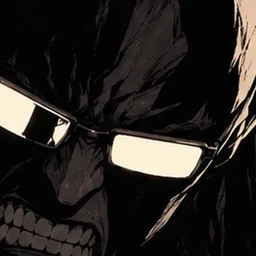
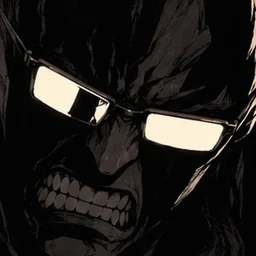
cave-3d v0.79: 도감 설정 반영 — 이름 17명 · 잭 · 고대사슴 크기 · 돌장갑 NPC · 불경자 스킬 그림
- 도감 본명 (sync_names): 로젤 → 헤마 · 고딕 기사 → 비나 · 금기사 → 나달 · 비숏 → 비숍 · 가람 → 폰 · 갱스터 가리 → 가리 · 건 → 풍야 · 율리 → 건 · 권총악마 → 호즈 · 히든깨비 → 각혈 · 천사슬 → 러슬 · 로시나 → 로지나 · 갱스터 잉끌레이도르 → 잭
- 잉끌레이도르 노트에 codex_g (도감 장도리 = 잭 묶음)
- 고대사슴 산호: 몸길이 5m · 등 높이 3m → 노트 tall 5.3 · 몸 반경 1.45 (h2.js v2.5)
- 돌장갑 역할 NPC · 카리우스 불경자 스킬 그림 얼굴 전체로 다시 자름
- 콜로세움 업뎃! 칸 v0.79 묶음 (drill.js v1.12)

Claude-Session: https://claude.ai/code/session_01J3nhobVtF4R9kQDUc9EDKF

diff --git a/cave-3d/src/names.js b/cave-3d/src/names.js
@@ -1,7 +1,7 @@
 /* names.js v1.0 — tools/sync_names.py 가 만듦 (손으로 고치지 말 것). 도감 본명 → 게임 이름
    본명 = 도감에서 고친 이름 > 도감 목록 이름, 괄호 꼬리표는 뗌. 2 · 3기 명단 (H2R)은 이름 뒤 설명 괄호를 그대로 둠 */
 'use strict';
-const BONMYEONG = {"agnes":"로젤","archer":"붉은 망토 궁수","axeKnight":"도끼기사","benkin":"벤킨","bk":"고딕 기사","bkShield":"검방흑기사","bkSpear":"흑기사창병","bluefat":"푸른 뚱보","bogwang":"보광","borama":"보르마","brute":"곤봉 거한","catw":"검냥이","cesar":"세자르","cheong":"청광묵","cheongAlly":"청광묵","cheongNpc":"청광묵","crabchef":"게 요리사","cs":"청승","dandalo":"단달로","eyemon":"눈깔괴물","fingerHole":"손가락 구멍","foeCultist":"광신도","foeDevil":"꼬마악마","foeFairy":"꼬마요정","foeJelly":"젤리 괴물","general":"대장군","goldknightAlly":"금기사","goodwill":"GOOD WILL","gwangnyang":"광냥","h2:ahae":"아해","h2:ahae2":"아해","h2:ancientangel":"고대천사","h2:ancientdeer":"고대사슴 산호","h2:arkam":"아컴","h2:bel":"인공천사 벨","h2:bishot":"비숏","h2:blackrabbit":"흑토끼기사","h2:blueflame":"푸른불꽃","h2:changra":"창라","h2:cheonmyeong":"천명","h2:collider":"콜라이더","h2:colossus15":"15M 거인병사","h2:dolsoe":"돌쇠","h2:gallia":"갈리아","h2:gandu":"갱스터 간두","h2:garam":"가람","h2:garam2":"가람","h2:gari":"갱스터 가리","h2:ghostgirl":"귀신녀","h2:goldknight":"금기사","h2:goldmask":"노란악마녀","h2:grinvan":"선봉장","h2:gun":"건","h2:gundevil":"권총악마","h2:hadim":"대악마 하딤","h2:hammerknight":"해머기사","h2:hari":"하리","h2:haryu":"하류","h2:heugik":"흑익","h2:hiddenkkaebi":"히든깨비","h2:hirari":"히라리","h2:hirari2":"히라리","h2:hongdukkae":"홍두깨","h2:hornbeast":"거대괴수B","h2:inclador":"갱스터 잉끌레이도르","h2:jaru":"자루","h2:joshua":"투구게 조슈아","h2:kanya":"여검방기사 칸야","h2:khaki":"카키","h2:knightcaptain":"기사단장","h2:langpang":"랑팡","h2:levi":"레비","h2:madangsoe":"마당쇠","h2:madosa":"마도사","h2:magusgirl":"마도사","h2:majin":"마신족 병사","h2:makarov":"대전사 마카로프","h2:mangak":"망각","h2:manghyang":"이계악마 망향","h2:mano":"마노","h2:mari":"마리","h2:mintbeast":"민트괴수","h2:moro":"모로","h2:mstar":"모닝스타","h2:mulle":"물레","h2:ohe":"오헤","h2:pearl":"인공타천사 펄","h2:rain":"레임","h2:ratknight":"쥐 기사","h2:ratsmall":"일반 쥐","h2:redarmor":"붉은갑주","h2:redrock":"붉은암석","h2:rook":"룩","h2:rozel":"로젤","h2:ryang":"아량","h2:sanddalgi":"산딸기","h2:scythebeast":"보라빛 대낫 괴수","h2:shedor":"배신자 셰도르","h2:slra":"천사슬","h2:slra2":"천사슬","h2:sosucha":"소스차","h2:spore":"포자","h2:stagbeast":"사슴","h2:stoneglove":"돌장갑","h2:tanga":"탕아","h2:tank":"중장 탱크","h2:ted":"테드","h2:tehera":"테헤라","h2:unitA":"기체 A","h2:unitB":"기체 B","h2:venti":"중장 벤티","h2:vicky":"비키","h2:wangnim":"하르겐","h2:whistle":"휘슬","h2:wraitha":"망령A","h2:yellow":"옐로","h2:yongmyo":"용묘화","h2:yuli":"율리","hargen":"하르겐","inju":"인주","jakyak":"작약","janggun":"장군님","jeokroe":"적뢰","kar":"카리우스","karius":"카리우스","kariusAlly":"카리우스","morningstar":"모닝스타","norman":"노먼","odile":"오딜","player":"인주","poren":"포렌","ratKnight":"쥐 기사","ratKnightV":"쥐 기사","ratV":"일반 쥐","rebecca":"레베카","rebeccaAlly":"레베카","rosina":"로시나","shieldman":"검방패병","slimeGirl":"슬라임녀","snail":"인광달팽이","spearman":"창병","swordsman":"검사","tehera":"테헤라","tomoe":"용묘화","umbrella":"우산 소녀","yellow":"옐로"};
+const BONMYEONG = {"agnes":"헤마","archer":"붉은 망토 궁수","axeKnight":"도끼기사","benkin":"벤킨","bk":"비나","bkShield":"검방흑기사","bkSpear":"흑기사창병","bluefat":"푸른 뚱보","bogwang":"보광","borama":"보르마","brute":"곤봉 거한","catw":"검냥이","cesar":"세자르","cheong":"청광묵","cheongAlly":"청광묵","cheongNpc":"청광묵","crabchef":"게 요리사","cs":"청승","dandalo":"단달로","eyemon":"눈깔괴물","fingerHole":"손가락 구멍","foeCultist":"광신도","foeDevil":"꼬마악마","foeFairy":"꼬마요정","foeJelly":"젤리 괴물","general":"대장군","goldknightAlly":"나달","goodwill":"GOOD WILL","gwangnyang":"광냥","h2:ahae":"아해","h2:ahae2":"아해","h2:ancientangel":"고대천사","h2:ancientdeer":"고대사슴 산호","h2:arkam":"아컴","h2:bel":"인공천사 벨","h2:bishot":"비숍","h2:blackrabbit":"흑토끼기사","h2:blueflame":"푸른불꽃","h2:changra":"창라","h2:cheonmyeong":"천명","h2:collider":"콜라이더","h2:colossus15":"15M 거인병사","h2:dolsoe":"돌쇠","h2:gallia":"갈리아","h2:gandu":"갱스터 간두","h2:garam":"폰","h2:garam2":"폰","h2:gari":"가리","h2:ghostgirl":"귀신녀","h2:goldknight":"나달","h2:goldmask":"노란악마녀","h2:grinvan":"선봉장","h2:gun":"풍야","h2:gundevil":"호즈","h2:hadim":"대악마 하딤","h2:hammerknight":"해머기사","h2:hari":"하리","h2:haryu":"하류","h2:heugik":"흑익","h2:hiddenkkaebi":"각혈","h2:hirari":"히라리","h2:hirari2":"히라리","h2:hongdukkae":"홍두깨","h2:hornbeast":"거대괴수B","h2:inclador":"잭","h2:jaru":"자루","h2:joshua":"투구게 조슈아","h2:kanya":"여검방기사 칸야","h2:khaki":"카키","h2:knightcaptain":"기사단장","h2:langpang":"랑팡","h2:levi":"레비","h2:madangsoe":"마당쇠","h2:madosa":"마도사","h2:magusgirl":"마도사","h2:majin":"마신족 병사","h2:makarov":"대전사 마카로프","h2:mangak":"망각","h2:manghyang":"이계악마 망향","h2:mano":"마노","h2:mari":"마리","h2:mintbeast":"민트괴수","h2:moro":"모로","h2:mstar":"모닝스타","h2:mulle":"물레","h2:ohe":"오헤","h2:pearl":"인공타천사 펄","h2:rain":"레임","h2:ratknight":"쥐 기사","h2:ratsmall":"일반 쥐","h2:redarmor":"붉은갑주","h2:redrock":"붉은암석","h2:rook":"룩","h2:rozel":"헤마","h2:ryang":"아량","h2:sanddalgi":"산딸기","h2:scythebeast":"보라빛 대낫 괴수","h2:shedor":"배신자 셰도르","h2:slra":"러슬","h2:slra2":"러슬","h2:sosucha":"소스차","h2:spore":"포자","h2:stagbeast":"사슴","h2:stoneglove":"돌장갑","h2:tanga":"탕아","h2:tank":"중장 탱크","h2:ted":"테드","h2:tehera":"테헤라","h2:unitA":"기체 A","h2:unitB":"기체 B","h2:venti":"중장 벤티","h2:vicky":"비키","h2:wangnim":"하르겐","h2:whistle":"휘슬","h2:wraitha":"망령A","h2:yellow":"옐로","h2:yongmyo":"용묘화","h2:yuli":"건","hargen":"하르겐","inju":"인주","jakyak":"작약","janggun":"장군님","jeokroe":"적뢰","kar":"카리우스","karius":"카리우스","kariusAlly":"카리우스","morningstar":"모닝스타","norman":"노먼","odile":"오딜","player":"인주","poren":"포렌","ratKnight":"쥐 기사","ratKnightV":"쥐 기사","ratV":"일반 쥐","rebecca":"레베카","rebeccaAlly":"레베카","rosina":"로지나","shieldman":"검방패병","slimeGirl":"슬라임녀","snail":"인광달팽이","spearman":"창병","swordsman":"검사","tehera":"테헤라","tomoe":"용묘화","umbrella":"우산 소녀","yellow":"옐로"};
 (function(){
   const swap = (old, nm) => { const m = /^(.*?)\s*(\(.*\))?\s*$/.exec(old || ''), b = m[1], tail = m[2] || '', extra = b !== nm && b.startsWith(nm) ? b.slice(nm.length).trim() : '';
     return nm + (extra || tail ? ' (' + [extra, tail.slice(1, -1)].filter(Boolean).join(' · ') + ')' : ''); };

diff --git a/cave-3d/src/h2.js b/cave-3d/src/h2.js
@@ -1,4 +1,4 @@
-/* h2.js v2.4 — (v2.4, v0.78: 기술 끝 그림 pose2 를 장판 기술 (베기 · 찌르기 · 찍기 · 마무리 …) 에도 — 칠 때 그 그림. 용묘화: 모아 내려치기 charge → smash · 파내기 · 파묻기 dig → dig2 (도감 움짤)) (v2.3, v0.77: 1차 업뎃 새 동작 프레임 H2MOV (src/h2_mov.js, tools/h2_moves.py) — 걷기 · 달리기 · 맞음 · 기절 · 쓰러짐 · 기술 그림을 노트 동작 위에 덮어씀. 옐로는 새 디자인만 (replace). 걷기 그림이 진짜면 출렁임을 끔) (v2.2: 기사단장은 4성 — 체력 1900 → 340 · 공격 30 → 22 · 보스 · 2페이즈 뺌) (v2.1: 노트의 크기 맞춤은 gscale (scale 은 자를 때 배율이라 쓰면 안 됨 — v2.0 에서 쥐 베테랑 등이 작아지던 것 고침) · 다 큰 쥐 기사 · 쥐 베테랑 키를 인주 · 청광묵과 비슷하거나 살짝 작게) (v2.0: 동작 검토 — 노트의 f (보는 방향) · flat (누운 그림) · scale (크기 맞춤) 을 씀) (v1.9: 쥐 기사 단계를 미리 정할 수 있음 H2.ratLv (포렌의 기억하는 쥐) · 포렌 (poren.js) 이 2기 목록에 붙음) (v1.8: 쥐 기사 성장 단계 1~4 (크기 · 체력 · 공격) · 하르겐 · 마도사 (맨얼굴) 이름) (v1.7: 3기-2 26명 기술표 (포렌의 쥐 · 아해 · 5성 서포터 · 1기 인물 새 시트 · 로젤 · 왕님 · 기사단장) · 패시브 25종 · 거르개 3기-2 / 1기 / 5성 · 포렌의 쥐 분대 단추) (v1.6: 자체점검 — 글만 있던 패시브 19개에 효과 · 주먹 화상 hitSts · 연계 도중 맞거나 넘어지면 끊김 (전엔 경직을 풀어 버림)) (v1.5: 3기 1차 25명 기술표 · 2기 7명 덧붙임 · 패시브 13종 · 소환 kind/hpk) (v1.4: 3기 — 기술 종류 rain 연속 장판 · wave 충격파 · beam 광선 · trap 덫 · combo 연계, 보스 2페이즈 phase · 2페이즈 기술 ph) (v1.3, v0.61: 움직임 기울기도 보이는 방향 fS를 따름) (v1.2: 묶음 그림 H2A (h2_atlas.js)가 있으면 그 칸을 씀 · 얼굴 모음) (v1.1: 기술 이름을 덮던 발수 n → cnt · 이름 괄호 정리 · 등급 묶음 · 패시브 효과 21종 H2PAS) (v1.0, v0.60) 2기 멤버: 드라이브 '2기멤버 동료,적 모음' 1차 반영
+/* h2.js v2.5 — (v2.5, v0.79: 고대사슴 산호 도감 설정 크기 — 몸길이 5m · 등 높이 3m (노트 tall 5.3) · 몸 반경 1.1 → 1.45. 잉끌레이도르 = 잭 (도감 본명, names.js) · 돌장갑 NPC) (v2.4, v0.78: 기술 끝 그림 pose2 를 장판 기술 (베기 · 찌르기 · 찍기 · 마무리 …) 에도 — 칠 때 그 그림. 용묘화: 모아 내려치기 charge → smash · 파내기 · 파묻기 dig → dig2 (도감 움짤)) (v2.3, v0.77: 1차 업뎃 새 동작 프레임 H2MOV (src/h2_mov.js, tools/h2_moves.py) — 걷기 · 달리기 · 맞음 · 기절 · 쓰러짐 · 기술 그림을 노트 동작 위에 덮어씀. 옐로는 새 디자인만 (replace). 걷기 그림이 진짜면 출렁임을 끔) (v2.2: 기사단장은 4성 — 체력 1900 → 340 · 공격 30 → 22 · 보스 · 2페이즈 뺌) (v2.1: 노트의 크기 맞춤은 gscale (scale 은 자를 때 배율이라 쓰면 안 됨 — v2.0 에서 쥐 베테랑 등이 작아지던 것 고침) · 다 큰 쥐 기사 · 쥐 베테랑 키를 인주 · 청광묵과 비슷하거나 살짝 작게) (v2.0: 동작 검토 — 노트의 f (보는 방향) · flat (누운 그림) · scale (크기 맞춤) 을 씀) (v1.9: 쥐 기사 단계를 미리 정할 수 있음 H2.ratLv (포렌의 기억하는 쥐) · 포렌 (poren.js) 이 2기 목록에 붙음) (v1.8: 쥐 기사 성장 단계 1~4 (크기 · 체력 · 공격) · 하르겐 · 마도사 (맨얼굴) 이름) (v1.7: 3기-2 26명 기술표 (포렌의 쥐 · 아해 · 5성 서포터 · 1기 인물 새 시트 · 로젤 · 왕님 · 기사단장) · 패시브 25종 · 거르개 3기-2 / 1기 / 5성 · 포렌의 쥐 분대 단추) (v1.6: 자체점검 — 글만 있던 패시브 19개에 효과 · 주먹 화상 hitSts · 연계 도중 맞거나 넘어지면 끊김 (전엔 경직을 풀어 버림)) (v1.5: 3기 1차 25명 기술표 · 2기 7명 덧붙임 · 패시브 13종 · 소환 kind/hpk) (v1.4: 3기 — 기술 종류 rain 연속 장판 · wave 충격파 · beam 광선 · trap 덫 · combo 연계, 보스 2페이즈 phase · 2페이즈 기술 ph) (v1.3, v0.61: 움직임 기울기도 보이는 방향 fS를 따름) (v1.2: 묶음 그림 H2A (h2_atlas.js)가 있으면 그 칸을 씀 · 얼굴 모음) (v1.1: 기술 이름을 덮던 발수 n → cnt · 이름 괄호 정리 · 등급 묶음 · 패시브 효과 21종 H2PAS) (v1.0, v0.60) 2기 멤버: 드라이브 '2기멤버 동료,적 모음' 1차 반영
    ■ 그림 · 키 · 적성 · 배낭은 h2_roster.js (tools/h2_roster.py가 art/h2/notes/*.json에서 만듦)
    ■ 기술은 아래 H2K (인물마다 손으로 정함 — 그림 (동작)과 짝지음)
    ■ 한 인물이 동료로도 적으로도 나올 수 있음: DEFS['h2_' + slug] (동료) · DEFS['h2e_' + slug] (적)
@@ -410,7 +410,7 @@ Object.assign(H2K, {
   moro: { st: { hp: 240, atk: 26, spd: 4.1, melee: ML(2.8, 1.0, 0.28, 0.8, 2.8) }, pas: ['밤나방', '어두운 곳에서 회피 +10% · 피해 +10%'],
     sk: [sk('hack', '난도질', 'slash', 'attack2', 7, 3.5, { r: 4, arc: 1.6, mul: 1.5, sts: 'bleed' }), sk('pierce', '나방 찌르기', 'dash', 'skill', 8, 6, { len: 6, w: 1, mul: 1.3, windup: 0.3 }),
       sk('dust', '가루 날개', 'guard', 'guard', 12, 2, { t: 2 }), sk('dive', '급강하', 'leap', 'crouch', 10, 8, { len: 8, r: 3, mul: 0.6, mul2: 1.5, trip: true }), sk('reap', '쓸어베기', 'finisher', 'low', 6, 2, { mul: 2.5 })] },
-  ancientdeer: { st: { hp: 900, atk: 34, spd: 3.6, melee: ML(4.2, 1.1, 0.5, 1.3, 1.6, 2.0), r: 1.1, weight: 3000 }, pas: ['고대의 가시', '근접 피해 15% 되돌림 · 반 아래서 공격 +20%'],
+  ancientdeer: { st: { hp: 900, atk: 34, spd: 3.6, melee: ML(4.2, 1.1, 0.5, 1.3, 1.6, 2.0), r: 1.45, weight: 3000 },   // v2.5 도감 설정 몸길이 5m · 등 높이 3m (노트 tall 4.0 → 5.3) — 몸 반경도 같이 pas: ['고대의 가시', '근접 피해 15% 되돌림 · 반 아래서 공격 +20%'],
     sk: [sk('horn', '가시뿔 돌진', 'combo', 'windup', 10, 12, { sub: [{ type: 'dash', pose: 'dash', len: 12, w: 2.2, mul: 1.5, kb: 3, trip: true, windup: 0.6 }] }),
       sk('stomp', '대지 짓밟기', 'slam', 'slam', 11, 5, { r: 6, mul: 1.5, stun: 1, windup: 0.9 }), sk('antler', '뿔 방벽', 'guard', 'low', 12, 3, { t: 3 })] },
   slra: { st: { hp: 165, atk: 13, spd: 3.3, melee: ML(1.4, 0.7), bow: { range: 8, windup: 0.4, cd: 1.1, speed: 16 } }, pas: ['젤리 몸', '근접 피해 -15%'],

diff --git a/cave-3d/src/drill.js b/cave-3d/src/drill.js
@@ -1,4 +1,4 @@
-/* drill.js v1.11 — (v1.11, v0.78: '업뎃!' 칸에 용묘화 · 테헤라 (도감 움짤로 움직임) — 가장 오래된 v0.70 묶음은 뺌) (v1.10, v0.77: '업뎃!' 칸에 1차 업뎃 2 · 3기 28명 묶음 — 가장 오래된 v0.69 묶음은 뺌) (v1.9, v0.76: '업뎃!' 칸에 1차 업뎃 잡몹 10명 묶음 · 시험판에서 적으로만 나오는 인물의 상대가 안 서던 것 고침 — 검사 대신 청광묵) (v1.8, v0.73: 콜로세움 '업뎃!' 칸 — 모션 고친 인물을 맨 위에 노란 테두리로 · 묶음 시험판) (v1.7, v0.72: 콜로세움 #colo — 2D 훈련장처럼 끌어 놓고 구경, 맨 아래) (v1.6: 2기 · 3기 보스는 적뢰 보스 초기화 (bossInit) 안 함 — 몸 크기가 0.8로 덮이던 것) (v1.5, v0.61: 훈련장 초기화 drillReset — 시나리오 · 규칙 탭 버튼) (v1.4, v0.60: 2기 탭 — h2.js) (v1.3, v0.58: 경계 (뒤를 봄) 체크 · 자객 기록 · 사각 · 자객 보이기 버튼 · 적성 저장) (v1.2, v0.57: 진지 버튼 · 진지 기록 · 도움말) (v1.1, v0.56: 사격 규율 고르기 · 치명 규칙 켜고 끄기 · 은신 시나리오 · 은신 통계) (v1.0, v0.55) 훈련장: 지금까지 이야기한 것을 한 곳에서 다 해 보는 넓은 들판 (주소 #drill · 굴의 일시정지 창 '훈련장')
+/* drill.js v1.12 — (v1.12, v0.79: '업뎃!' 칸에 고대사슴 산호 (도감 설정 크기) · 카리우스 (불경자 스킬 그림) — 가장 오래된 v0.76 묶음은 뺌) (v1.11, v0.78: '업뎃!' 칸에 용묘화 · 테헤라 (도감 움짤로 움직임) — 가장 오래된 v0.70 묶음은 뺌) (v1.10, v0.77: '업뎃!' 칸에 1차 업뎃 2 · 3기 28명 묶음 — 가장 오래된 v0.69 묶음은 뺌) (v1.9, v0.76: '업뎃!' 칸에 1차 업뎃 잡몹 10명 묶음 · 시험판에서 적으로만 나오는 인물의 상대가 안 서던 것 고침 — 검사 대신 청광묵) (v1.8, v0.73: 콜로세움 '업뎃!' 칸 — 모션 고친 인물을 맨 위에 노란 테두리로 · 묶음 시험판) (v1.7, v0.72: 콜로세움 #colo — 2D 훈련장처럼 끌어 놓고 구경, 맨 아래) (v1.6: 2기 · 3기 보스는 적뢰 보스 초기화 (bossInit) 안 함 — 몸 크기가 0.8로 덮이던 것) (v1.5, v0.61: 훈련장 초기화 drillReset — 시나리오 · 규칙 탭 버튼) (v1.4, v0.60: 2기 탭 — h2.js) (v1.3, v0.58: 경계 (뒤를 봄) 체크 · 자객 기록 · 사각 · 자객 보이기 버튼 · 적성 저장) (v1.2, v0.57: 진지 버튼 · 진지 기록 · 도움말) (v1.1, v0.56: 사격 규율 고르기 · 치명 규칙 켜고 끄기 · 은신 시나리오 · 은신 통계) (v1.0, v0.55) 훈련장: 지금까지 이야기한 것을 한 곳에서 다 해 보는 넓은 들판 (주소 #drill · 굴의 일시정지 창 '훈련장')
    ■ 맵 (밝은 낮, 78 × 48칸)
      · 서쪽 사격장: 사선 (낮은 바위) 뒤에서 5 · 10 · 16칸 표적 — 보통 · 방패 · 갑옷 · 괴물 허수아비 (적성 · 약점 · 방패 시험)
      · 가운데 교전장: 넓은 빈 들 — 무리 · 진형 · 교전 자리 연습. 북쪽 망루 (높은 단 · 경사로)
@@ -361,9 +361,9 @@ function coloRoster(){
 }
 // v1.8 '업뎃!' 칸: 모션 · 크기 · 그림을 고친 인물 (모션 시험용). 새로 고치면 맨 앞에 묶음을 더하고, 3묶음이 넘으면 오래된 것을 뺌
 const COLO_UPD = [
+  { v: 'v0.79', n: '도감 설정 반영 — 고대사슴 산호 크기 (몸길이 5m · 등 높이 3m → 뿔 끝까지 5.3m) · 카리우스 불경자 스킬 그림 (얼굴 전체가 보이게)', ids: ['h2:ancientdeer', 'kariusAlly'] },
   { v: 'v0.78', n: '프레임은 있는데 멈춰 있던 인물 — 용묘화 (대기 · 공격 2가지 · 모아 내려치기 · 파내기) · 테헤라 (날며 대기 · 바위에 앉아 쉬기)', ids: ['h2:yongmyo', 'h2:tehera'] },
   { v: 'v0.77', n: '1차 업뎃 2 · 3기 28명 새 동작 — 걷기 · 뒤로 걷기 · 달리기 · 맞음 · 기절 · 쓰러짐 · 기술 그림 · 옐로 새 디자인', ids: ['h2:yellow', 'h2:bel', 'h2:gandu', 'h2:yongmyo', 'h2:moro', 'h2:goldknight', 'h2:gari', 'h2:gundevil', 'h2:ohe', 'h2:rook', 'h2:mstar', 'h2:knightcaptain', 'h2:blackrabbit', 'h2:tank', 'h2:venti', 'h2:ratvet', 'h2:ratknight', 'h2:mari', 'h2:dolsoe', 'h2:rozel', 'h2:kanya', 'h2:wangnim', 'h2:madangsoe', 'h2:inclador', 'h2:bishot', 'h2:tehera', 'h2:ratsmall', 'h2:poren'] },
-  { v: 'v0.76', n: '1차 업뎃 잡몹 10명 새 그림 — 걷기 · 달리기 · 공격 2가지 · 고유 기술 · 맞음 · 기절 · 막기 · 쓰러짐 · 쉼', ids: ['swordsman', 'shieldman', 'archer', 'spearman', 'foeCultist', 'foeDevil', 'bkShield', 'bkSpear', 'gwangnyang', 'bluefat'] },
 ];
 const coloUpdOf = id => COLO_UPD.find(g => g.ids.includes(id));
 const COLO_TABS = [['ally', '동료'], ['g1', '1기'], ['g2', '2기'], ['g3', '3기'], ['foe', '적'], ['boss', '보스']];

diff --git a/cave-3d/src/h2_roster.js b/cave-3d/src/h2_roster.js
@@ -712,7 +712,7 @@ const H2R = {
 "rank": "5성 이상",
 "folder": "3기-2/고대사슴 5성이상",
 "role": "동료 (5성 이상 = 높은 등급 동료로 봄. 덩치 큰 괴수라 적 · 보스로도 쓸 수 있음 → 둘 다 가능)",
-"tall": 4.0,
+"tall": 5.3,
 "weight": 3000,
 "palette": [
 "#2a2a2c",
@@ -4566,6 +4566,7 @@ const H2R = {
 "weight_kg": 68,
 "tall_m": 1.8
 },
+"codex_g": "h3x_jangdori",
 "portrait": "art/h2/inclador/portrait.webp",
 "face": "art/h2/inclador/face.webp",
 "poses": {
@@ -9500,7 +9501,7 @@ const H2R = {
 "name": "돌장갑",
 "rank": "미정 (폴더 이름에 등급 없음)",
 "folder": "돌장갑",
-"role": "동료 (적 격투가로도 가능)",
+"role": "NPC (떠돌이 격투가 — 동료 아님, 적으로도 나옴 · 도감 설정 2026-10-09)",
 "tall": 1.62,
 "weight": 95,
 "palette": [

diff --git a/cave-3d/src/core.js b/cave-3d/src/core.js
@@ -1,7 +1,7 @@
 /* 굴의 프롤로그 3D 시제품 · core.js v0.1
    공용: 상태 · 입력 · 수학 · 그림(스프라이트 정의) · 텍스처 */
 'use strict';
-const VERSION = 'v0.78';
+const VERSION = 'v0.79';
 const TICKS = [];   // v0.55 한 프레임마다 부르는 것들 (engage · sol · squad · drill이 넣음): f(dt)
 // v0.49 게임이 업데이트되면 (VERSION이 바뀌면) 저장을 모두 지우고 새로 시작 (민수: 진행 중 저장은 되게, 단 업데이트되면 초기화)
 let SAVE_RESET = null;

diff --git a/cave-3d/README.md b/cave-3d/README.md
@@ -1,6 +1,6 @@
 # 굴의 프롤로그 3D (시제품)
 
-현재 버전: v0.78
+현재 버전: v0.79
 
 2D판 (`../cave-game`, v14.11)에서 나온 피드백의 뿌리 세 개를 풀려고 새로 짓는 3D판. 지금은 1층 하나만.
 
@@ -171,6 +171,13 @@
 
 ## 변경 기록
 
+- v0.79 (2026-10-09) 도감 설정 반영 — 민수가 도감에 적은 인물 설정 · 이름 (h2.js v2.5 · drill.js v1.12 · names.js · h2_roster.js, codex catalog v1.92)
+  - 이름 17명 (도감 본명, tools/sync_names.py): 로젤 → 헤마 (2D 적 agnes 도) · 고딕 기사 → 비나 · 금기사 → 나달 · 비숏 → 비숍 · 가람 → 폰 · 갱스터 가리 → 가리 · 건 → 풍야 · 율리 → 건 · 권총악마 → 호즈 · 히든깨비 → 각혈 · 천사슬 → 러슬 · 로시나 → 로지나 · 갱스터 잉끌레이도르 → 잭
+  - 잭: 잉끌레이도르는 잭의 다른 이름 ("끌레도르라고 소개하지만 본명은 잭") — 노트 codex_g 로 도감 장도리 (잭) 묶음에 붙음
+  - 고대사슴 산호: 도감 설정 몸길이 5m · 등 높이 3m — 그림 비율로 맞추면 고개 든 대기 그림의 뿔 끝까지 5.3m (전 4.0m) · 몸 반경 1.1 → 1.45
+  - 돌장갑: 동료 아님 → NPC (떠돌이 격투가, 적으로도) — 노트 역할 글자
+  - 카리우스 '불경자' 스킬 그림: 컷씬에서 다시 자름 — 안경 · 이빨 · 턱까지 얼굴 전체가 보이게 (art/kar/icon_heretic.webp)
+  - 콜로세움 '업뎃!' 칸: v0.79 묶음 (고대사슴 산호 · 카리우스), 가장 오래된 v0.76 묶음은 뺌
 - v0.78 (2026-10-09) 프레임은 있는데 게임에서 멈춰 있던 인물 — 도감 움짤을 동작으로 (tools/h2_moves.py v1.1 CANIMS, h2.js v2.4 · ai.js v0.32 · motion.js v1.2)
   - 도감 움짤 103개를 게임과 맞춰 봄: 게임에 나오는데 움짤이 안 쓰이던 인물은 용묘화 · 테헤라 둘 (나머지는 이미 쓰거나 · 게임에 없는 인물 · 옛 디자인 · 컷씬)
   - 용묘화: 대기 16장 · 기본 공격 2가지 번갈아 (삽 휘두르기 · 돌진 내려치기) · 모아 내려치기 (붉게 모으기 → 내려치기) · 파내기 · 파묻기 (낮게 들어가기 → 흙 퍼올리기)
